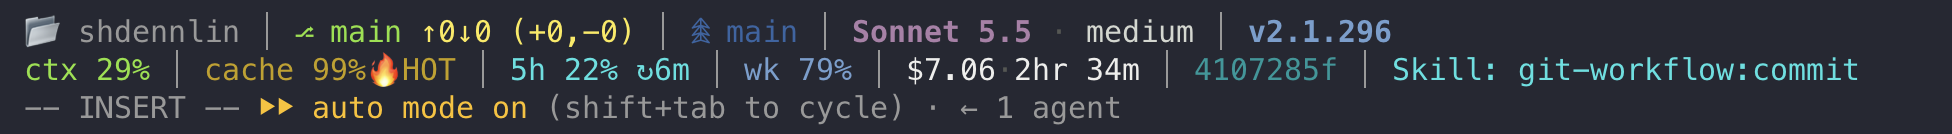
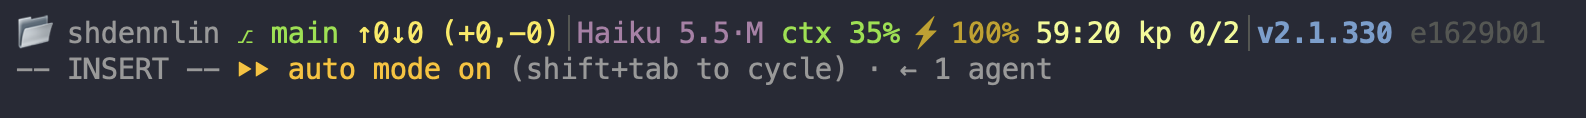
Update My Claude Code setup: herdr hooks, status line, plugins
- Replace the cmux hook with herdr-session-label and herdr-subagent-hook.
- Add a Terminal: Herdr section linking to herdr-config.
- Rewrite the status line section for the current single-line config, with a new screenshot.
- Sync the embedded skill-routing rules and add the collie and SessionEnd hooks.
- Plugin list: drop git-workflow (not enabled), add frontend-design.

Claude-Session: https://claude.ai/code/session_019LG6GQjL5wY2HyCdYYMWBU

Changed region(s): [[0.0, 0.1271, 0.9887, 0.7119], [0.0, 0.7119, 0.587, 0.9153]]

diff --git a/src/content/post/my-claude-code-setup/index.md b/src/content/post/my-claude-code-setup/index.md
@@ -10,7 +10,7 @@ tags:
   - tools
 status: growing
 created: 2026-05-02 04:00:04
-updated: 2026-08-01 17:37:52
+updated: 2026-11-22 15:27:47
 ---
 
 This is a snapshot of how I currently extend [Claude Code](https://www.anthropic.com/claude-code) — plugins, hooks, the status line, and the workflow patterns I rely on day to day.
@@ -25,19 +25,19 @@ The goal is not to install every tool I can find. I want a setup that makes Clau
 ## Development workflow
 
 - [`feature-dev`](https://github.com/anthropics/claude-plugins-official/tree/main/plugins/feature-dev) for the `code-architect` and `code-explorer` subagents I lean on during early architecture work. It is installed but switched off by default; I turn it on when I want those agents.
+- [`frontend-design`](https://github.com/anthropics/claude-plugins-official/tree/main/plugins/frontend-design) for UI work, so the interface is not a generic template.
 - [`code-review`](https://github.com/anthropics/claude-plugins-official/tree/main/plugins/code-review) for ad-hoc code reviews via the `/code-review` slash command, separate from the deeper review loops below. `reviewer` can also use it as a second engine.
 - [`superpowers`](https://github.com/obra/superpowers) for TDD discipline, systematic debugging, and the verification/review skills I rely on most. Paired with my own routing rules — see [Shaping skill behavior](#shaping-skill-behavior-with-rules) below.
 
 ## My own plugins
 
-- `git-workflow` for repeatable Git operations and Conventional Commits, mainly `/git-workflow:commit`.
 - `mermaid-validator` for checking Mermaid diagrams in Markdown with `/mermaid-validator:check`.
 - `reviewer` for spec and implementation review loops: `/reviewer:spec` before implementation, `/reviewer:result` after it, and `/reviewer:spec-dual` to cross-check a spec with Claude and Codex. Result review is multi-angle by default, and `--fix` runs the fix iterations.
 - `digest` for summarizing branches, PRs, diffs, and design docs with `/digest:digest`.
 - `discuss` for framing a decision before building: `/discuss:discuss` sizes the decision, then lists assumptions, ranks hypotheses, or interviews me, and converges on an explicit choice.
 - `prompt-builder` for turning a messy session or a rough multi-task request into one paste-ready prompt that survives a rewind, with `/prompt-builder:build`.
 
-`git-workflow`, `reviewer`, and `digest` have more commands than the ones above; the full list is in the [agent-plugins README](https://github.com/shdennlin/agent-plugins#readme).
+`reviewer` and `digest` have more commands than the ones above; the full list is in the [agent-plugins README](https://github.com/shdennlin/agent-plugins#readme).
 
 A few of them are hook modules, TypeScript hooks that run inside Claude Code 2.1.289 or later, so they change the interface itself:
 
@@ -51,8 +51,11 @@ These live in my [agent-plugins](/projects/agent-plugins/) project.
 
 - [`session-notifier`](https://github.com/shdennlin/claude-hooks-notifier) for Telegram and macOS notifications on Claude Code hook events — useful when a long-running agent stops and needs me back at the keyboard.
 - [`rtk hook claude`](https://github.com/rtk-ai/rtk) on `PreToolUse`, a token-optimized CLI proxy that rewrites shell commands so their output costs fewer tokens.
-- `ccstatusline --hook` on `PreToolUse`, `UserPromptSubmit`, and `Stop`, which feeds the status line's skill widget (see [Status line](#status-line)).
-- A small hook that reports whether an agent is waiting on me to [cmux](https://github.com/manaflow-ai/cmux), the terminal I run Claude Code in.
+- `ccstatusline --hook` on `PreToolUse` (Skill matcher), `UserPromptSubmit`, and `Stop`.
+- `collie beacon emit` on `SessionStart`, `UserPromptSubmit`, `Stop`, `Notification`, and `SessionEnd`, a beacon from my collie tooling.
+- A `jq` command on `SessionEnd` that copies `claude --resume <session id>` to the clipboard, so I can pick the session up later.
+- `herdr-session-label` on `SessionStart` and `SessionEnd`. It labels the [Herdr](#terminal-herdr) terminal with the Claude session id, and drops the label when a session ends on purpose, so the resume banner does not offer it.
+- `herdr-subagent-hook` on `SubagentStart` and `SubagentStop`. It records Claude's built-in sub agents per Herdr terminal so the sidebar can list them. It stores only the agent type, never the prompt.
 
 ## Cross-agent and behavior shaping
 
@@ -90,11 +93,12 @@ Beyond the plugin list, a few patterns I rely on:
 
 ## Shaping skill behavior with rules
 
-`~/.claude/rules/skill-routing.md` is a user-instruction layer that overrides plugin-defined skill behavior. It is deliberately small — only three rules, each fixing a specific failure mode that Claude wouldn't avoid on its own:
+`~/.claude/rules/skill-routing.md` is a user-instruction layer that overrides plugin-defined skill behavior. It is deliberately small: three rules for skill behavior, and one for agent messaging. Each fixes a specific failure mode that Claude wouldn't avoid on its own:
 
 - **Spectra-vs-superpowers routing.** In Spectra repos, prefer `spectra-discuss` / `spectra-debug` over the equivalent superpowers skills, so design and debugging stay tied to Spectra's artifacts.
 - **Suppress `superpowers:brainstorming` auto-writing design docs.** The design discussion belongs in conversation; file output is friction.
 - **Force-trigger `superpowers:verification-before-completion` and `superpowers:receiving-code-review`.** These are the two skills with the highest ROI — they keep "I claimed it was done" and "I blindly chased a reviewer suggestion" from happening.
+- **Agent messaging.** Prefer the built-in `SendMessage` over `collie walky send`, and use collie only for a target that is not in `ListAgents`.
 
 Workflow sequencing (`discuss → propose → apply → archive`) is not in the rules — that's personal habit, not something Claude needs to enforce. User instructions outrank plugin-defined skill behavior, so superpowers stays installed (and gets upstream updates) while its rough edges get sanded down at user-instruction priority.
 
@@ -132,85 +136,42 @@ In non-Spectra repos this rule does not apply — superpowers wins because Spect
 ### `superpowers:receiving-code-review` ⭐ MANDATORY
 - Trigger when applying review feedback from any review-fix loop (`reviewer:result-fixer`, `reviewer:spec-fixer`, `/codex:review`, etc.).
 - For each review item, first verify the claim is technically correct. Push back with evidence on wrong/unnecessary suggestions instead of blindly implementing.
+
+## 4. Agent messaging
+
+- Prefer built-in `SendMessage` (target from `ListAgents`) over `collie walky send`.
+- Use collie only for a target not in `ListAgents`, or to reply to a collie message.
 ````
 
 </details>
 
+## Terminal: Herdr
+
+I run Claude Code in [Herdr](https://github.com/herdrdev/herdr-app), a macOS desktop app that puts coding-agent terminals in spaces and tabs, with a sidebar that lists the agents and a status bar. The two hooks above are how Claude sessions connect to Herdr terminals.
+
+My Herdr config is public in [herdr-config](https://github.com/shdennlin/herdr-config): an example layout, a keymap, and a small status-bar mod. The optional Spectra mods are in its `contrib/` folder. Its README has the setup steps and the dependency table.
+
 ## Status line
 
-[`ccstatusline`](https://github.com/sirmalloc/ccstatusline) drives a two-line status bar:
+[`ccstatusline`](https://github.com/sirmalloc/ccstatusline) draws one line at the bottom of Claude Code. Claude Code's own `statusLine` entry runs it with `refreshInterval` set to 30 seconds, so the context and cache numbers keep moving while I am idle.
 
-1. **Project and Claude** — current directory (via the [`showdir`](#showdir-helper) helper below), git branch with ahead/behind and change counts, worktree, model and thinking effort, Claude Code version, and a red alert that only appears when status.claude.com says Claude Code is not operational. The alert comes from a small script, `claude-status-alert`, that prints nothing when everything is healthy, so the segment stays hidden.
-2. **Context, cache, and cost** — context-window percentage, prompt-cache hit rate with the [`cache-keepalive`](#my-own-plugins) widget next to it, a compaction counter (hidden at zero), 5-hour usage with its reset timer, weekly usage, session cost and duration, a short session ID, and the active skill.
+From left to right:
 
-Claude Code's own `statusLine` entry runs `ccstatusline` with `refreshInterval` set to 30 seconds, so the clock and usage keep moving while I am idle.
+- **Project:** the current directory (via the [`showdir`](#showdir-helper) helper below), git branch with ahead/behind and change counts, and a 🌿 marker with the worktree name when I am in a linked worktree.
+- **Model:** the model name and effort level (`L`, `M`, `H`, `X`, or `Mx`).
+- **Context:** the context-window percentage.
+- **Cache:** the prompt-cache hit rate, followed by the [`cache-keepalive`](#my-own-plugins) widget.
+- **Version:** the Claude Code version.
+- **Session:** the first 8 characters of the session id.
+- **Usage writer:** a custom command, with no visible text, that stores the 5-hour and weekly rate limits from each status-line update in `~/.cache/claude-rate-limits.json`, plus a history file. The Herdr usage widget reads the cache, so usage shows in the Herdr bar instead of this line.
 
 ![[ccstatusline.png]]
 
-The third line in the screenshot (`INSERT`, `auto mode`, the agent count) is Claude Code's own footer, not part of `ccstatusline`.
+The second line in the screenshot (`INSERT`, `auto mode`, the agent count) is Claude Code's own footer, not part of `ccstatusline`.
 
-<details>
-<summary>Full <code>~/.config/ccstatusline/settings.json</code></summary>
+Earlier versions of this line were two rows and showed the 5-hour and weekly usage with reset timers, session cost, a compaction counter, the active skill, and a status-page alert. Usage now lives in Herdr, and the other widgets are gone.
 
-```json
-{
-  "version": 4,
-  "lines": [
-    [
-      { "type": "custom-command", "commandPath": "showdir --icon" },
-      { "type": "separator", "character": " │ " },
-      { "type": "git-branch", "color": "brightGreen" },
-      { "type": "custom-text", "customText": " " },
-      { "type": "git-ahead-behind", "color": "brightYellow", "metadata": { "hide": "no-upstream" } },
-      { "type": "custom-text", "customText": " " },
-      { "type": "git-changes", "color": "brightYellow" },
-      { "type": "separator", "character": " │ " },
-      { "type": "git-worktree", "color": "blue" },
-      { "type": "separator", "character": " │ " },
-      { "type": "model", "color": "brightMagenta", "rawValue": true, "bold": true },
-      { "type": "custom-text", "customText": " · ", "color": "brightBlack" },
-      { "type": "thinking-effort", "color": "white", "rawValue": true },
-      { "type": "separator", "character": " │ " },
-      { "type": "version", "color": "brightBlue", "bold": true },
-      { "type": "separator", "character": " │ " },
-      { "type": "custom-command", "color": "brightRed", "bold": true, "commandPath": "~/.local/bin/claude-status-alert" }
-    ],
-    [
-      { "type": "custom-text", "customText": "ctx ", "color": "brightGreen" },
-      { "type": "context-percentage", "color": "brightGreen", "rawValue": true },
-      { "type": "separator", "character": " │ " },
-      { "type": "custom-text", "customText": "cache ", "color": "yellow" },
-      { "type": "cache-hit-rate", "color": "yellow", "rawValue": true, "metadata": { "hide": "empty" } },
-      { "type": "custom-command", "color": "yellow", "commandPath": "<agent-plugins>/plugins/cache-keepalive/bin/keepalive-cache --ttl 3600" },
-      { "type": "separator", "character": " │ " },
-      { "type": "compaction-counter", "color": "brightRed", "metadata": { "format": "icon-space-number", "nerdFont": "true", "hide": "zero" } },
-      { "type": "separator", "character": " │ " },
-      { "type": "custom-text", "customText": "5h ", "color": "brightCyan" },
-      { "type": "session-usage", "color": "brightCyan", "rawValue": true },
-      { "type": "custom-text", "customText": " ↻", "color": "brightCyan" },
-      { "type": "reset-timer", "color": "brightCyan", "rawValue": true, "metadata": { "display": "time", "compact": "true" } },
-      { "type": "separator", "character": " │ " },
-      { "type": "custom-text", "customText": "wk ", "color": "brightBlue" },
-      { "type": "weekly-usage", "color": "brightBlue", "rawValue": true },
-      { "type": "separator", "character": " │ " },
-      { "type": "session-cost", "color": "brightWhite", "rawValue": true },
-      { "type": "custom-text", "customText": "·", "color": "brightBlack" },
-      { "type": "session-clock", "color": "brightWhite", "rawValue": true },
-      { "type": "separator", "character": " │ " },
-      { "type": "custom-command", "color": "cyan", "commandPath": "jq -r '.session_id[0:8]'" },
-      { "type": "separator", "character": " │ " },
-      { "type": "skills", "color": "brightCyan", "metadata": { "hide": "empty" } }
-    ]
-  ],
-  "flexMode": "full",
-  "compactThreshold": 60,
-  "colorLevel": 3
-}
-```
-
-I omitted the per-widget `id` UUIDs and the defaulted fields for readability, and shortened two paths (`<agent-plugins>` is wherever the plugin is checked out); `ccstatusline` regenerates the IDs on first save.
-
-</details>
+The two inline widgets (worktree and usage writer) are shell one-liners, so the full `settings.json` is long. The structure above is the whole config. The exact file, with my `agent-plugins` path replaced by a placeholder, is in [herdr-config](https://github.com/shdennlin/herdr-config/blob/main/ccstatusline/settings.json) along with the `showdir` helper. It is a snapshot, not a live copy, so it can lag behind my own config.
 
 ### `showdir` helper
 
